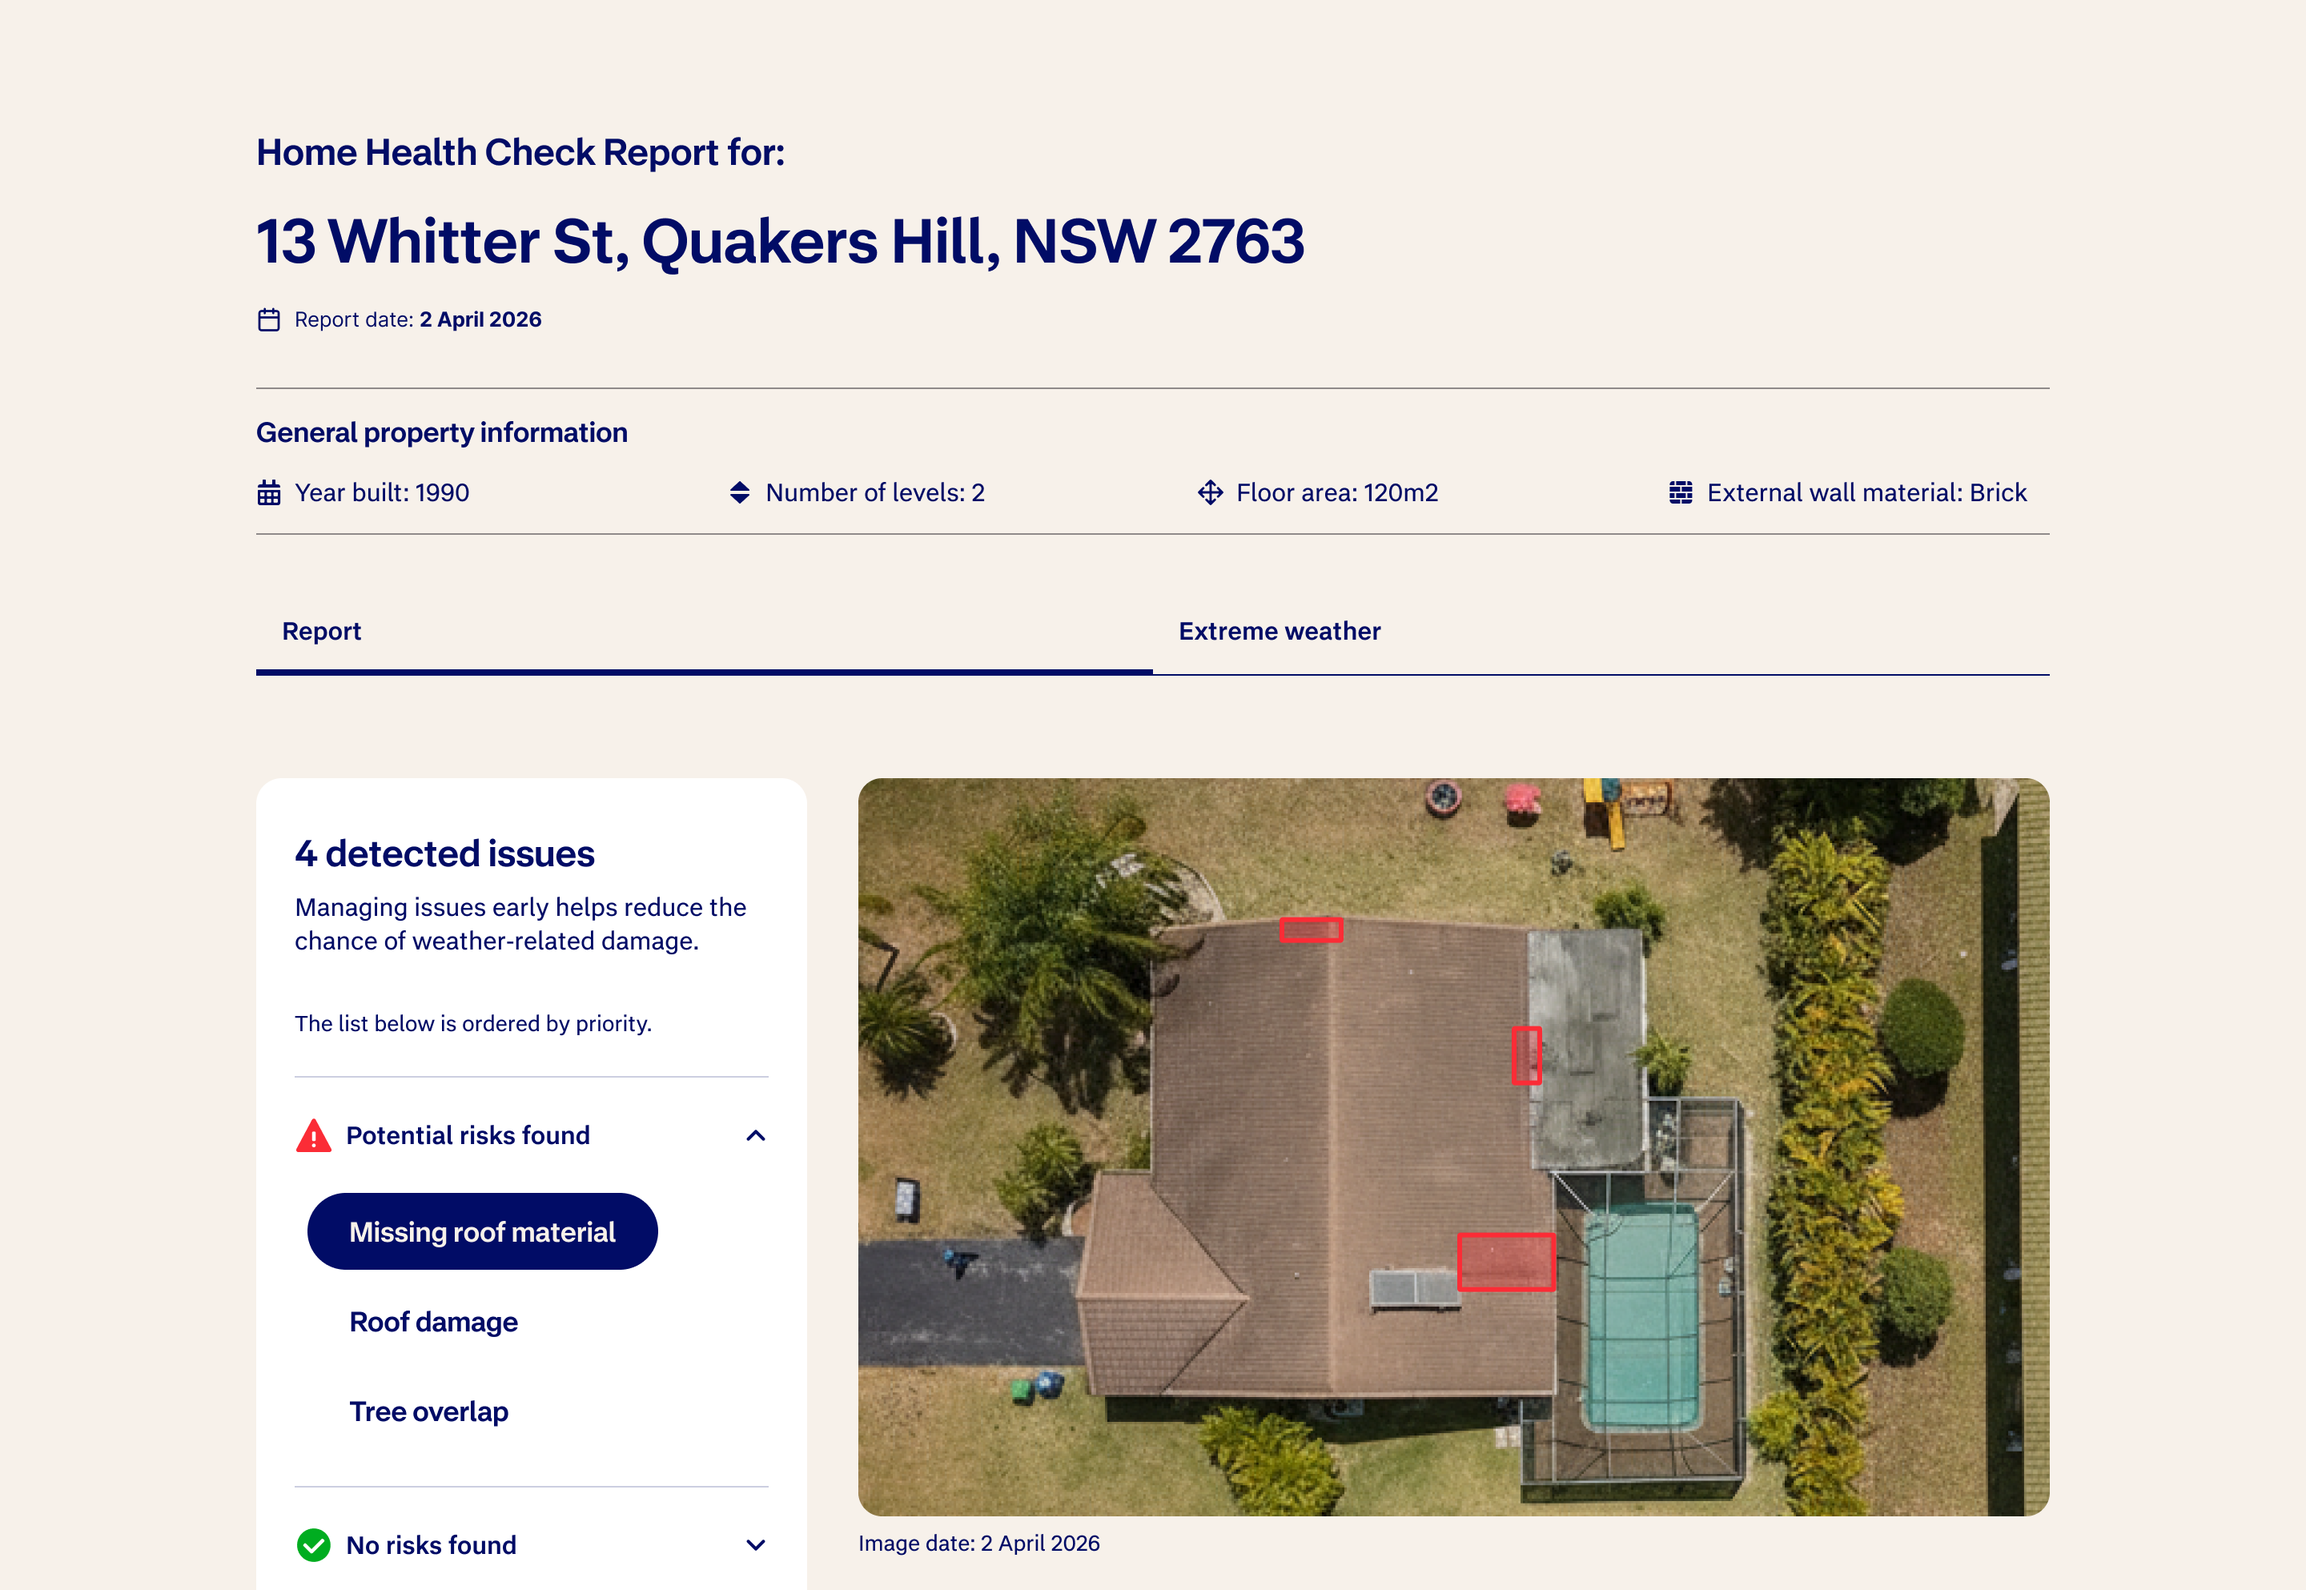
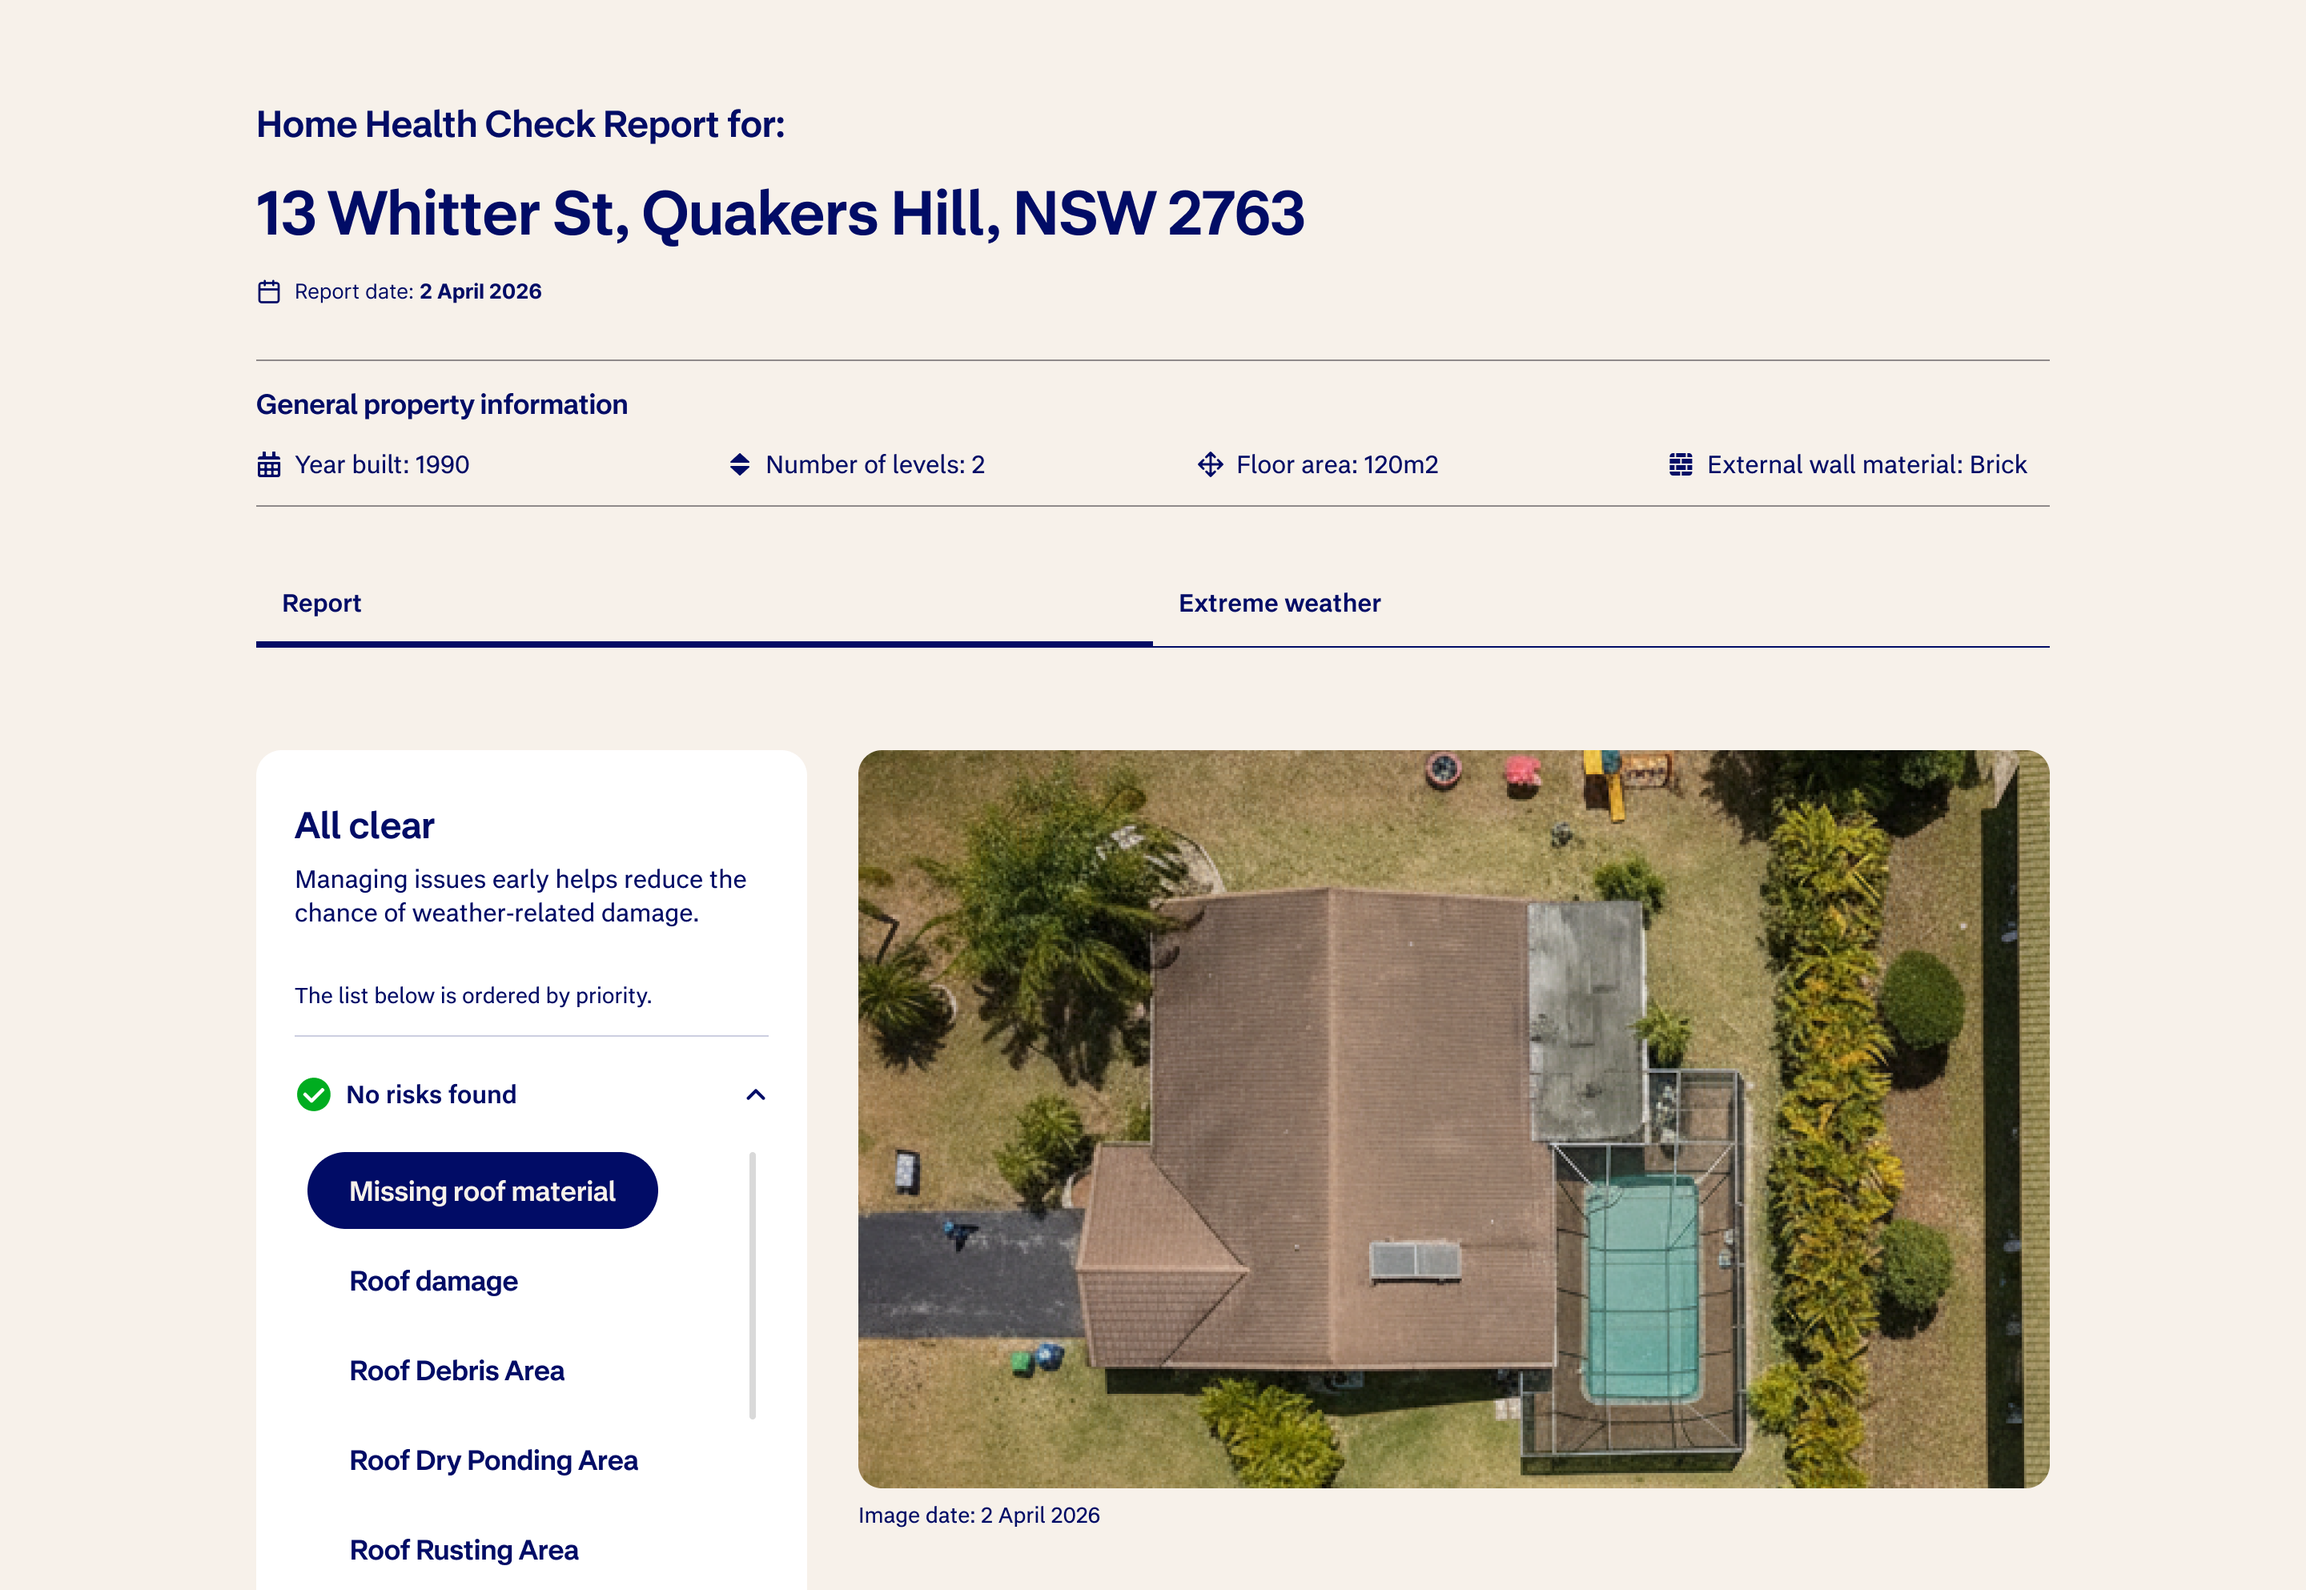
update image

diff --git a/src/components/WorkPage.tsx b/src/components/WorkPage.tsx
@@ -256,32 +256,34 @@ export default function WorkPage({ page }: { page: CaseStudyPage }) {
       </div>
 
       {/* MORE PROJECTS */}
-      <section className="border-t border-border bg-[#fafafa]">
-        <div className="mx-auto max-w-6xl px-6 py-16">
+      <section className="border-t border-border">
+        <div className="mx-auto max-w-6xl px-6 py-14 sm:py-16">
           <Reveal>
-            <span className="text-xs font-semibold uppercase tracking-widest text-muted">
+            <h2 className="font-display text-3xl font-bold leading-tight tracking-tight sm:text-4xl">
               More Projects
-            </span>
+            </h2>
           </Reveal>
-          <div className="mt-8 grid grid-cols-1 gap-6 sm:grid-cols-2">
+          <div className="mt-9 grid grid-cols-1 gap-x-8 gap-y-10 sm:grid-cols-2">
             {otherPages.slice(0, 2).map((other, i) => (
               <Reveal delay={0.05 * (i + 1)} key={other.slug}>
-                <Link
-                  href={`/work/${other.slug}`}
-                  className="group block overflow-hidden rounded-2xl border border-border bg-background transition-shadow hover:shadow-xl hover:shadow-black/5"
-                >
-                  <div className="overflow-hidden">
-                    <Image
-                      src={other.heroImage.src}
-                      alt={other.heroImage.alt}
-                      width={other.heroImage.width}
-                      height={other.heroImage.height}
-                      sizes="(min-width: 640px) 552px, 100vw"
-                      quality={90}
-                      className="aspect-[16/11] w-full object-cover transition-transform duration-500 group-hover:scale-[1.03]"
-                    />
+                <Link href={`/work/${other.slug}`} className="group block">
+                  <div
+                    className="overflow-hidden rounded-2xl p-4 sm:p-5"
+                    style={{ backgroundColor: other.accentBg }}
+                  >
+                    <div className="overflow-hidden rounded-xl">
+                      <Image
+                        src={other.heroImage.src}
+                        alt={other.heroImage.alt}
+                        width={other.heroImage.width}
+                        height={other.heroImage.height}
+                        sizes="(min-width: 640px) 552px, 100vw"
+                        quality={90}
+                        className="aspect-[16/11] w-full object-cover transition-transform duration-500 group-hover:scale-[1.03]"
+                      />
+                    </div>
                   </div>
-                  <div className="p-6">
+                  <div className="mt-5">
                     <div className="text-lg font-semibold tracking-tight">
                       {other.title.join(" ")}
                     </div>
@@ -347,6 +349,11 @@ export default function WorkPage({ page }: { page: CaseStudyPage }) {
           <div className="mt-14 flex flex-wrap items-center justify-between gap-3 border-t border-[#262622] pt-5 text-[12.5px] text-[#7d7b74]">
             <div>{page.footer.meta}</div>
             <div>© {new Date().getFullYear()} Chaojie Zhang</div>
+          </div>
+        </div>
+        <div className="overflow-hidden pb-2">
+          <div className="-mx-2 select-none whitespace-nowrap font-display text-[17vw] font-bold leading-none tracking-tight text-[#1a1a17]">
+            CHAOJIE ZHANG
           </div>
         </div>
       </footer>

diff --git a/src/data/caseStudyPages.ts b/src/data/caseStudyPages.ts
@@ -91,7 +91,7 @@ export const caseStudyPages: CaseStudyPage[] = [
     lead: "An AI-powered tool that helps NRMA customers proactively protect their homes — turning trusted risk data into simple, ongoing actions.",
     heroImage: {
       src: "/projects/work/home-health-check/hero.png",
-      alt: "Home Health Check detailed report with AI-detected roof issues — NRMA / IAG",
+      alt: "Home Health Check report with an all-clear result and aerial property imagery — NRMA / IAG",
       width: 2880,
       height: 1986,
     },
